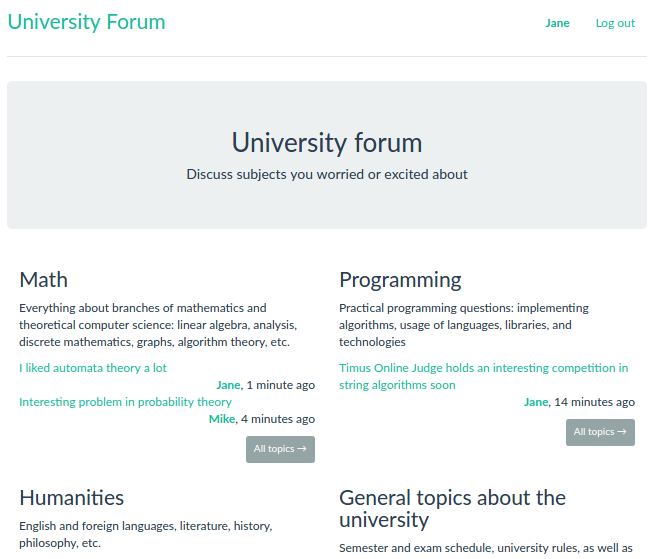
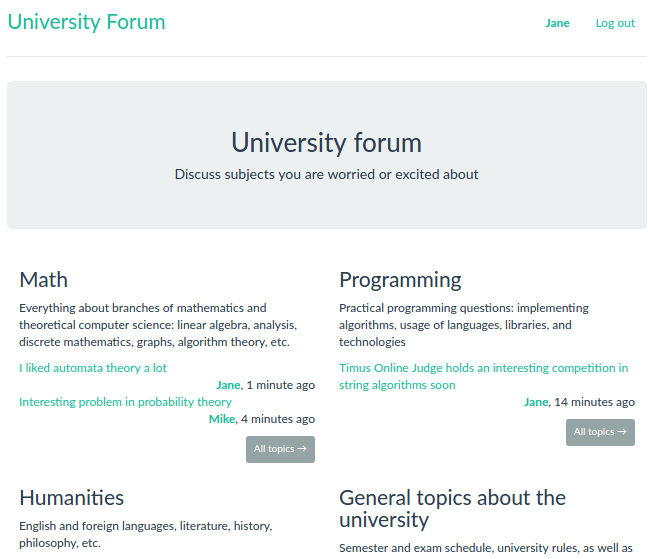
Fix typos

Changed region(s): [[0.2778, 0.3041, 0.7407, 0.3345], [0.3395, 0.2433, 0.6481, 0.2737]]

diff --git a/web/forum/templates/forum/index.html b/web/forum/templates/forum/index.html
@@ -3,7 +3,7 @@
 {% block content %}
 <div class="jumbotron">
     <h2>University forum</h2>
-    <p class="lead">Discuss subjects you worried or excited about</p>
+    <p class="lead">Discuss subjects you are worried or excited about</p>
 </div>
 
 {% for row in section_rows %}

diff --git a/README.md b/README.md
@@ -12,7 +12,7 @@ This forum is mainly an example of how [Docker Compose](https://docs.docker.com/
 in development (instead of [virtualenv](https://virtualenv.pypa.io/en/stable/)) and deployment of a Django website.
 
 The website contains several components: a MySQL server, a Django back-end, and nginx (which is placed in front of them
-production mode).
+in production mode).
 Thanks to Compose, you don't need to install, configure, or start these components yourself (either in development or
 production).
 All configuration is stored inside this repository, so Compose can pull and run all these servers
